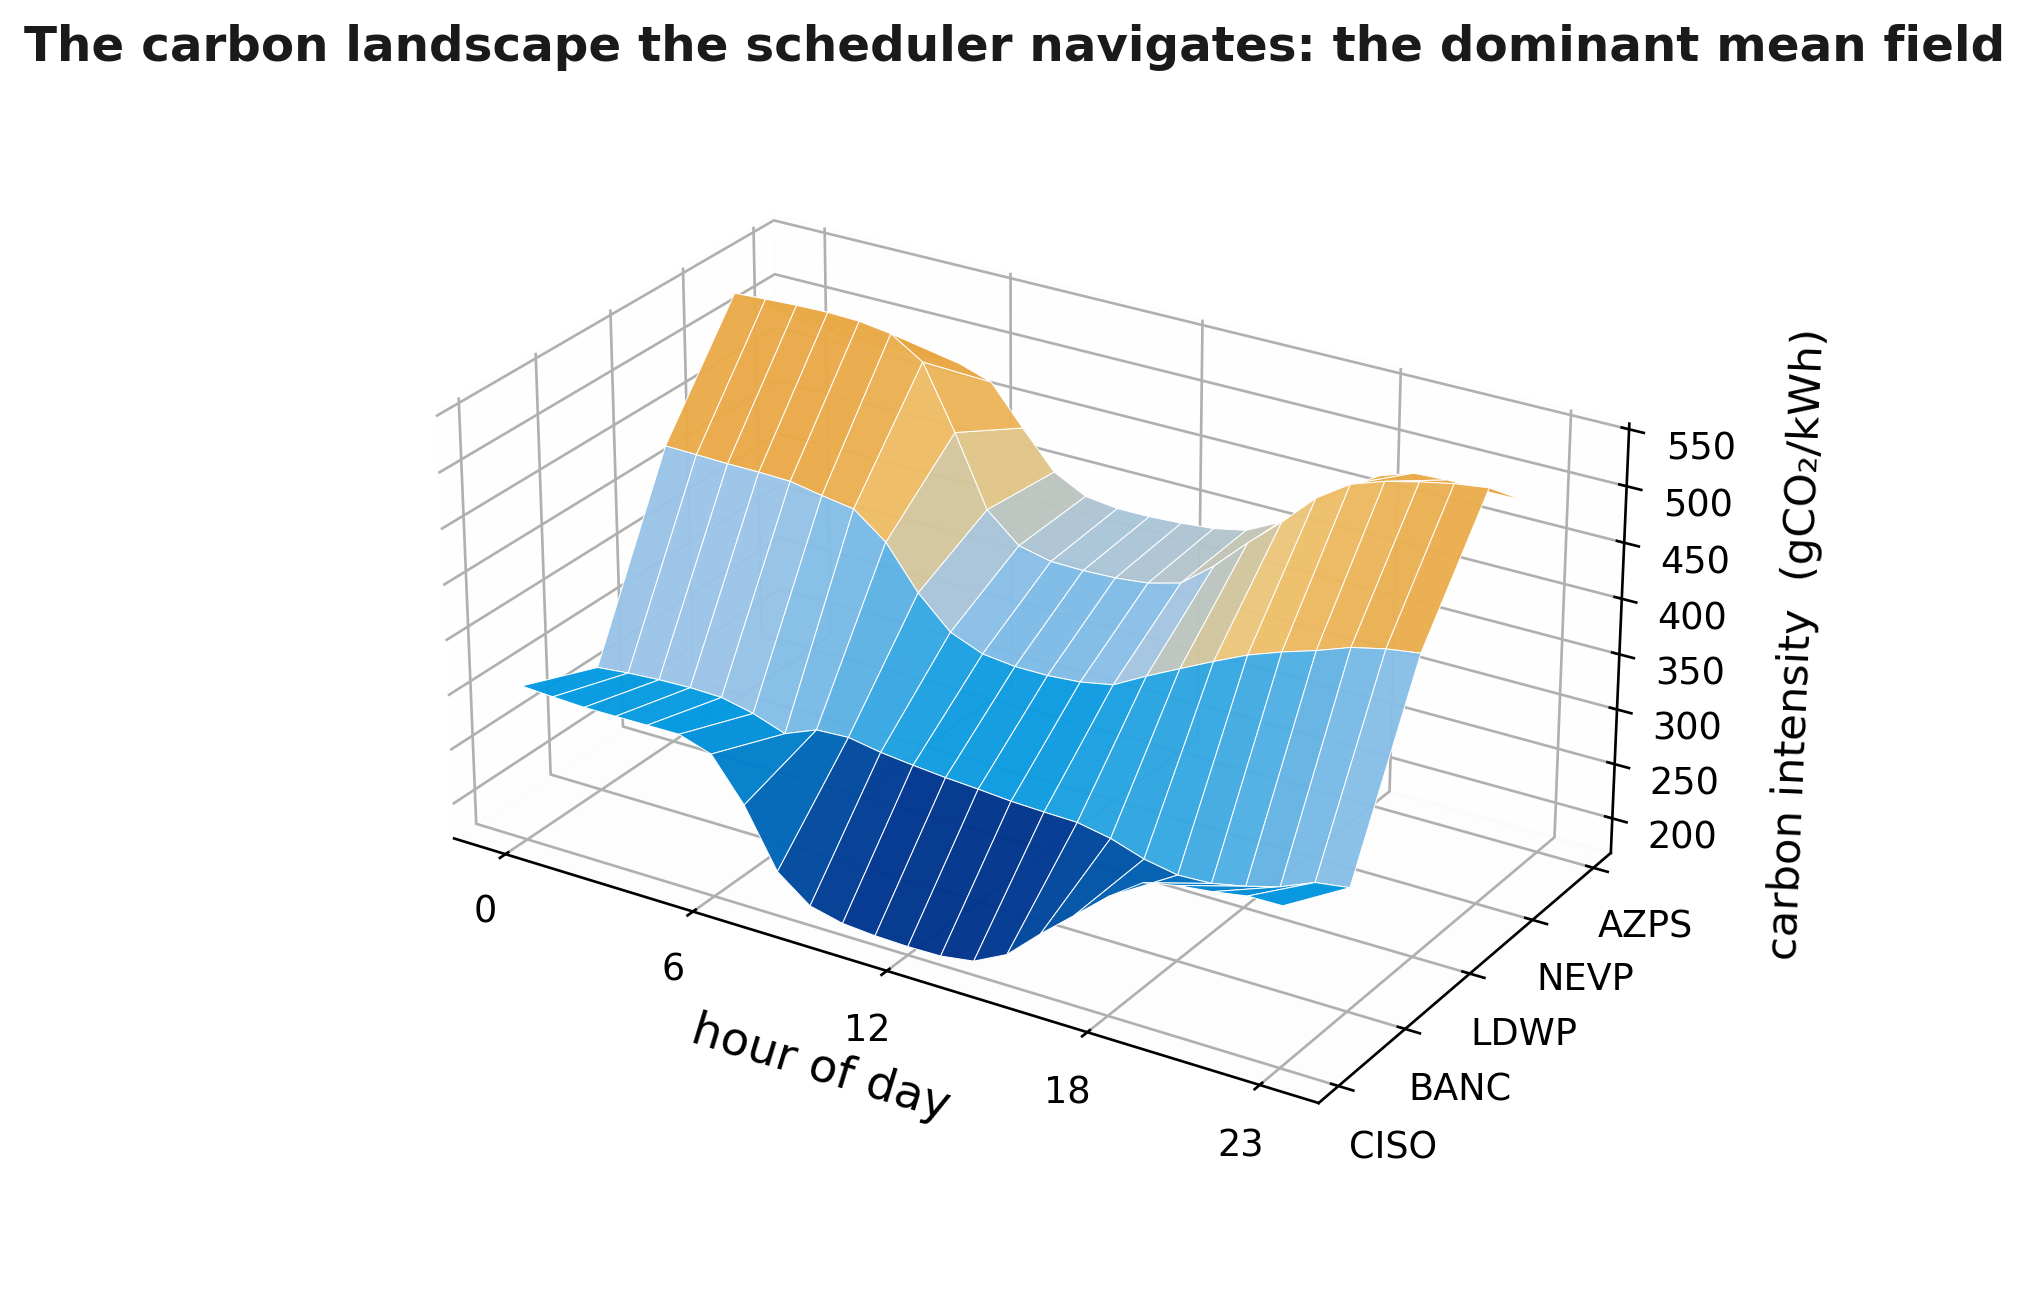
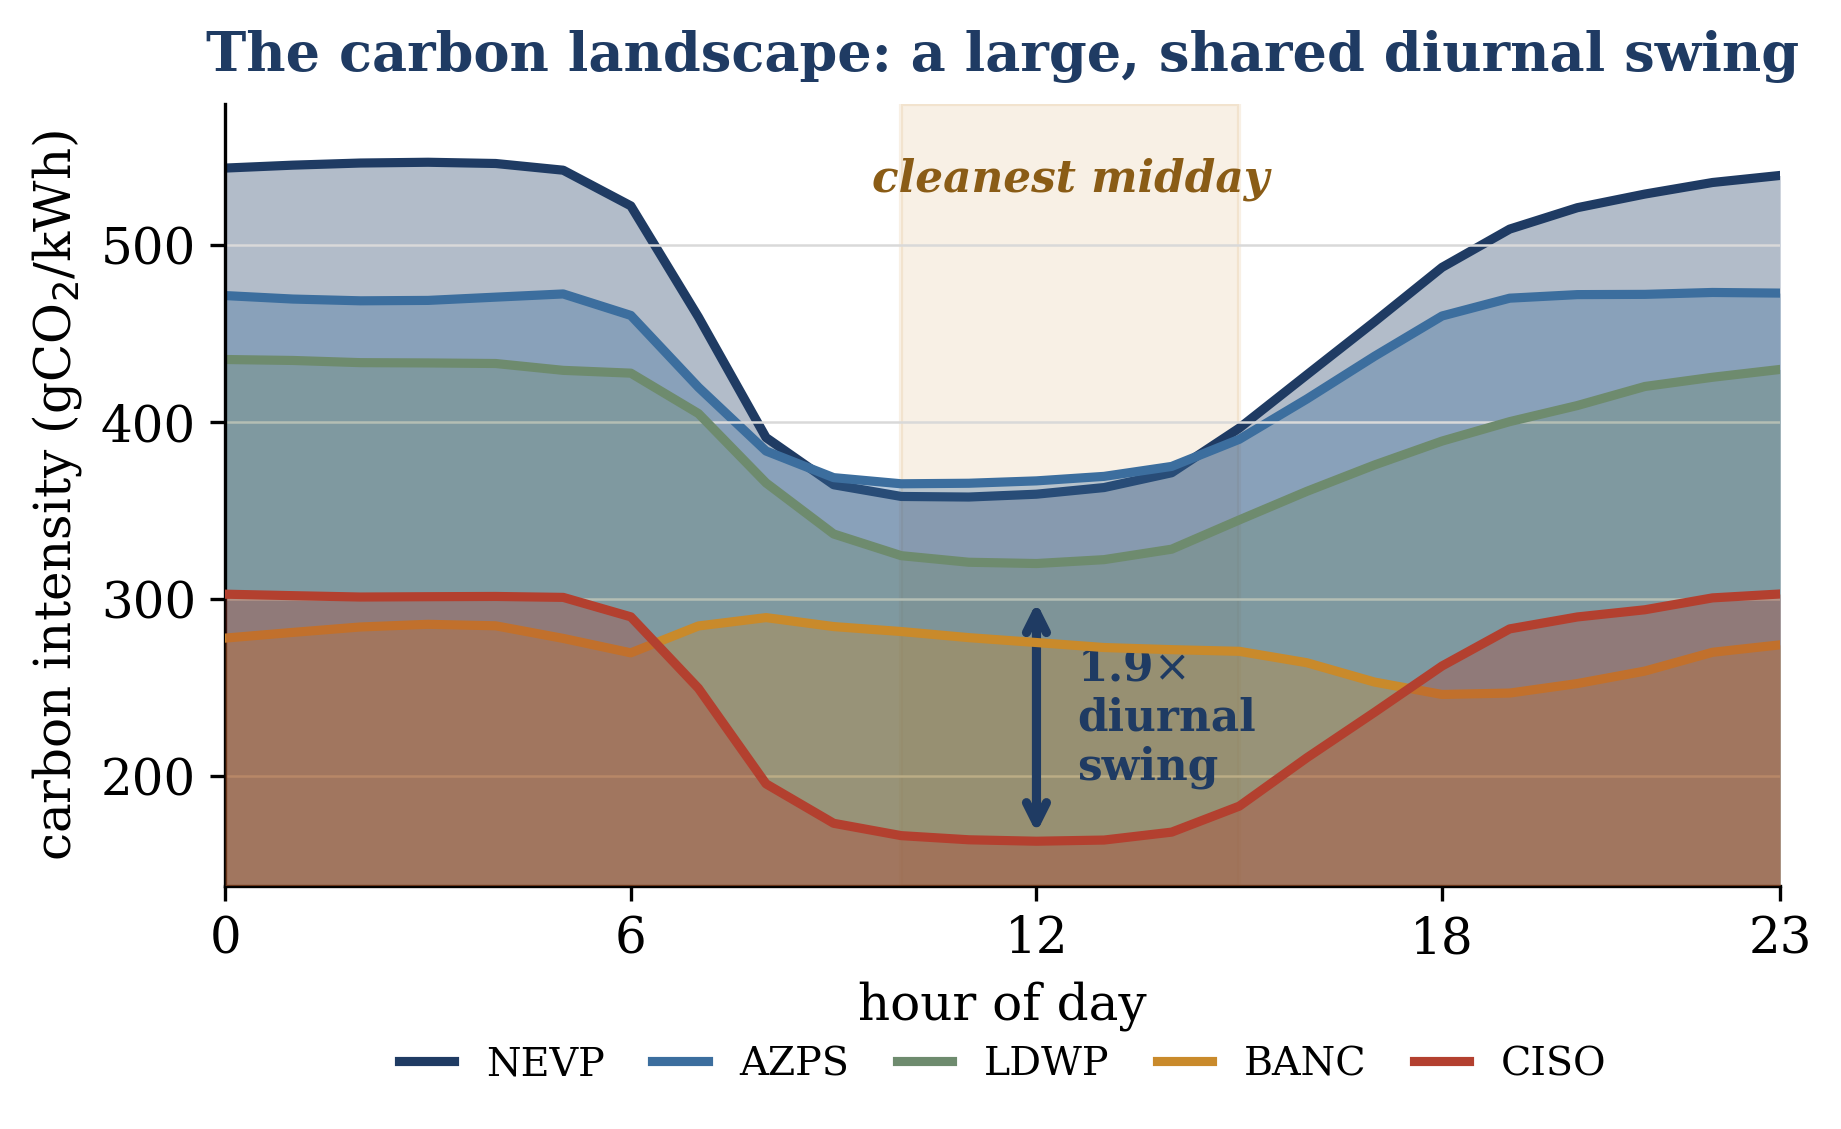
Poster: replace the 3D carbon-surface with a readable 2D landscape
The old carbon_landscape was a 3D surface you couldn't read values off. Replace it
with a reproducible 2D "landscape": mean carbon intensity by hour, one translucent
filled ridge per Western-grid region, layered by level so it reads as a landscape
with a clean midday valley, annotated with the 1.9x diurnal swing. Every value is
now readable, and it visually makes the mechanism point (large shared diurnal swing
-> the mean field dominates; regions move together -> covariance buys no hedge).
New scripts/plot_carbon_landscape.py generates it; poster rebuilt.

diff --git a/scripts/plot_carbon_landscape.py b/scripts/plot_carbon_landscape.py
@@ -1,0 +1,85 @@
+"""Poster figure: a 2D 'carbon landscape' (replaces the old 3D surface).
+
+Mean carbon intensity by hour of day, one translucent filled ridge per Western-grid
+region, layered back-to-front by level so it reads like a landscape with a clean
+midday valley. Conveys the thesis mechanism at a glance: a large, shared diurnal
+swing (the mean field that dominates) with every region moving together
+(common-mode, so cross-region covariance buys no hedge). Unlike the 3D surface,
+every value is readable off the y-axis.
+
+Run:  python -m scripts.plot_carbon_landscape
+Writes: poster/figs/carbon_landscape.png (300 dpi, ~1.57:1 for the poster slot).
+"""
+from __future__ import annotations
+
+from pathlib import Path
+
+import matplotlib
+matplotlib.use("Agg")
+import matplotlib.pyplot as plt
+import numpy as np
+
+from src.analysis.stratified_correlations import REGION_SETS
+from src.data.electricitymaps import load_all_zones, to_wide
+from src.models.covariance import build_daily_panel
+
+NAVY, GOLD, SAGE, RUST, BLUE = "#1F3B63", "#C98A2B", "#6E8B6E", "#B3402F", "#3C6E9E"
+OUT = Path(__file__).resolve().parents[1] / "poster" / "figs" / "carbon_landscape.png"
+LABELS = {"US-CAL-CISO": "CISO", "US-CAL-BANC": "BANC", "US-CAL-LDWP": "LDWP",
+          "US-NW-NEVP": "NEVP", "US-SW-AZPS": "AZPS"}
+
+
+def main():
+    cfg = REGION_SETS["us_west"]
+    zones = list(cfg["zones"])
+    wide = to_wide(load_all_zones(zones), value_col="ci_lifecycle")
+    panel, _ = build_daily_panel(wide, region_order=zones, tz=cfg["tz"], expected_T=24)
+    mean_field = panel.mean(axis=0)                      # (R, T) hour-of-day mean
+    hours = np.arange(24)
+    base = float(mean_field.min()) - 25.0
+
+    # layer dirtiest (highest mean) at the back so cleaner ridges sit in front
+    order = np.argsort(-mean_field.mean(axis=1))
+    colors = [NAVY, BLUE, SAGE, GOLD, RUST]
+
+    plt.rcParams.update({"font.family": "serif", "font.size": 12,
+                         "axes.spines.top": False, "axes.spines.right": False})
+    fig, ax = plt.subplots(figsize=(6.3, 4.0), dpi=300)
+
+    for k, r in enumerate(order):
+        y = mean_field[r]
+        c = colors[k % len(colors)]
+        ax.fill_between(hours, base, y, color=c, alpha=0.34, zorder=k, linewidth=0)
+        ax.plot(hours, y, color=c, lw=2.2, zorder=k + 0.5,
+                label=LABELS.get(zones[r], zones[r]))
+
+    # highlight the clean midday valley
+    ax.axvspan(10, 15, color=GOLD, alpha=0.12, zorder=-1)
+    ax.text(12.5, mean_field.max() * 1.005, "cleanest midday", ha="center", va="top",
+            fontsize=10.5, style="italic", fontweight="bold", color="#8A5C16")
+
+    # annotate the diurnal swing on the region that swings the most
+    swing = mean_field.max(axis=1) / mean_field.min(axis=1)
+    rr = int(np.argmax(swing))
+    pk_h = int(np.argmax(mean_field[rr])); tr_h = int(np.argmin(mean_field[rr]))
+    pk, tr = mean_field[rr, pk_h], mean_field[rr, tr_h]
+    ax.annotate("", xy=(tr_h, pk), xytext=(tr_h, tr),
+                arrowprops=dict(arrowstyle="<->", color=NAVY, lw=2.2))
+    ax.text(tr_h + 0.6, (pk + tr) / 2, f"{swing[rr]:.1f}$\\times$\ndiurnal\nswing",
+            ha="left", va="center", fontsize=10.5, fontweight="bold", color=NAVY)
+
+    ax.set_xlim(0, 23); ax.set_ylim(base, mean_field.max() * 1.06)
+    ax.set_xticks([0, 6, 12, 18, 23])
+    ax.set_xlabel("hour of day"); ax.set_ylabel("carbon intensity (gCO$_2$/kWh)")
+    ax.set_title("The carbon landscape: a large, shared diurnal swing",
+                 fontsize=13, fontweight="bold", color=NAVY, pad=8)
+    ax.grid(axis="y", color="0.85", lw=0.6)
+    ax.legend(ncol=5, fontsize=9.5, loc="upper center", frameon=False,
+              bbox_to_anchor=(0.5, -0.16), columnspacing=1.2, handlelength=1.4)
+    fig.tight_layout()
+    fig.savefig(OUT, bbox_inches="tight")
+    print(f"wrote {OUT}  ({mean_field.shape[0]} regions, swing {pk/tr:.2f}x)")
+
+
+if __name__ == "__main__":
+    main()